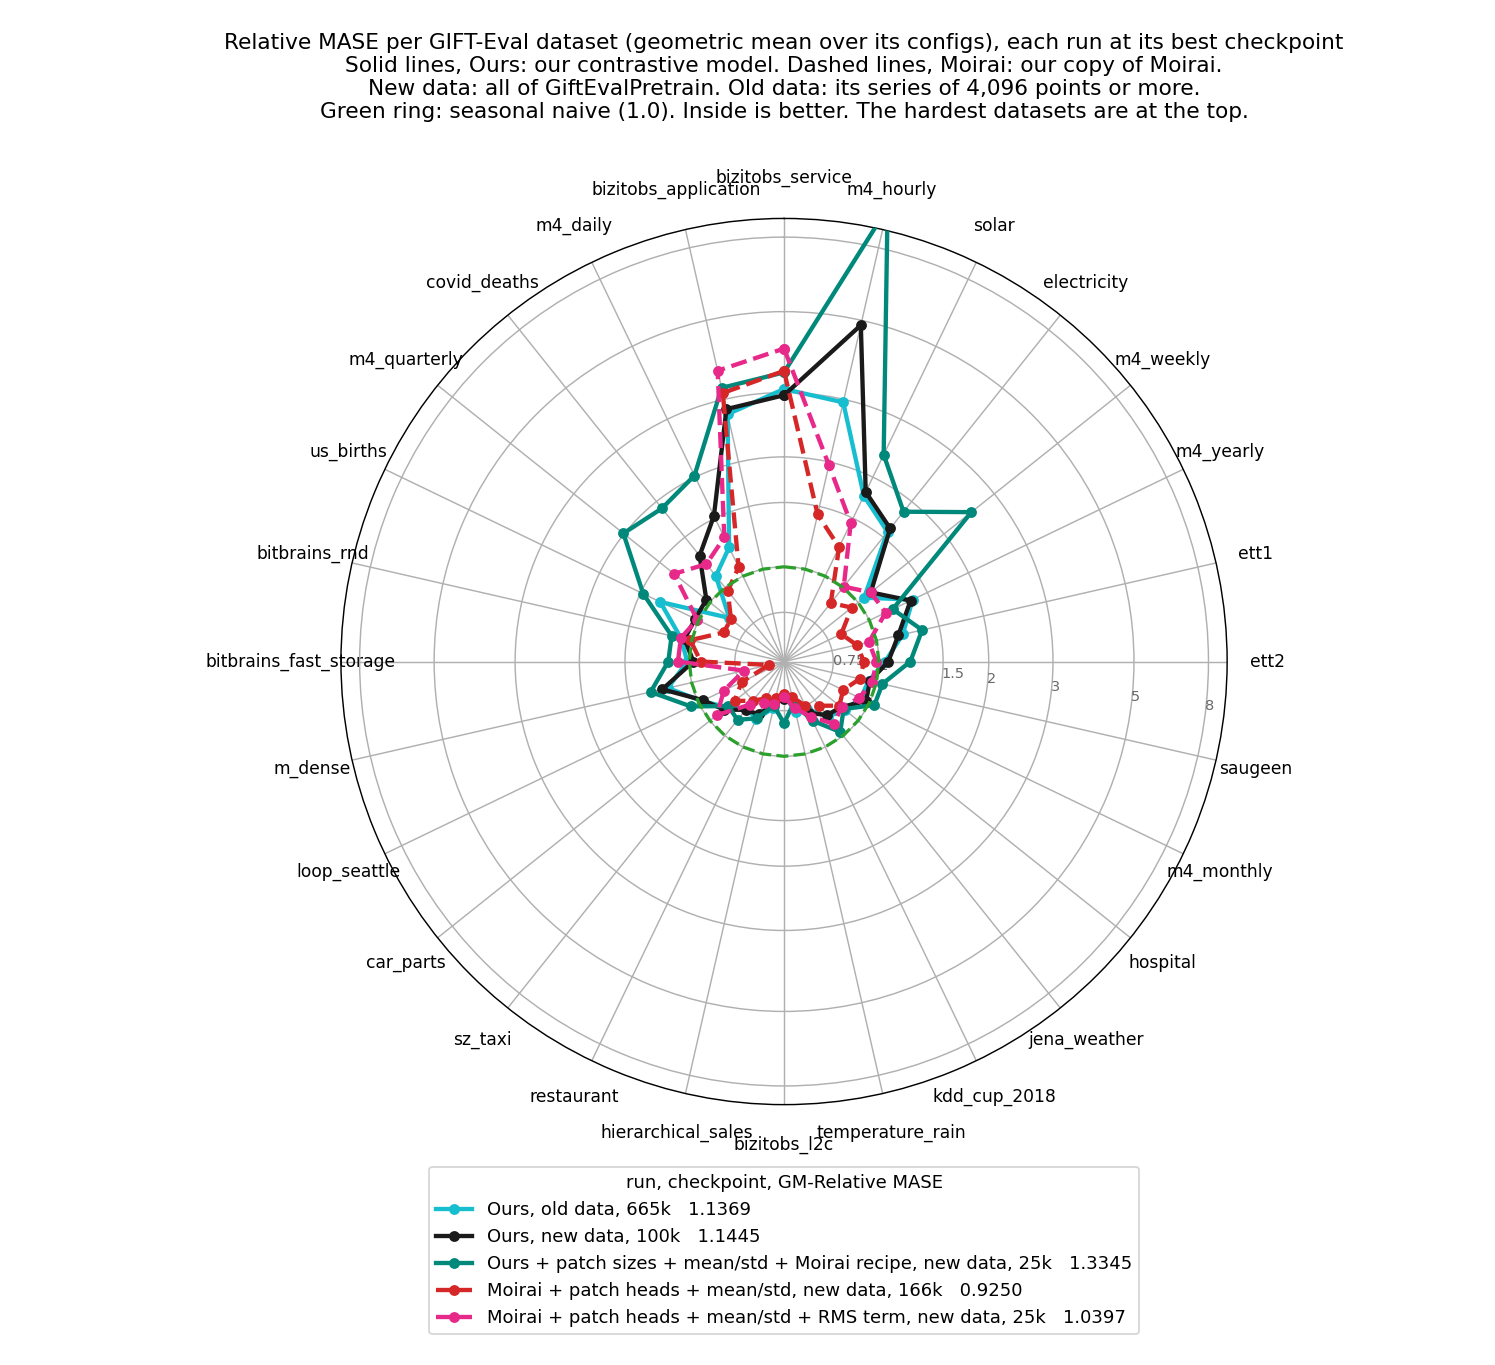
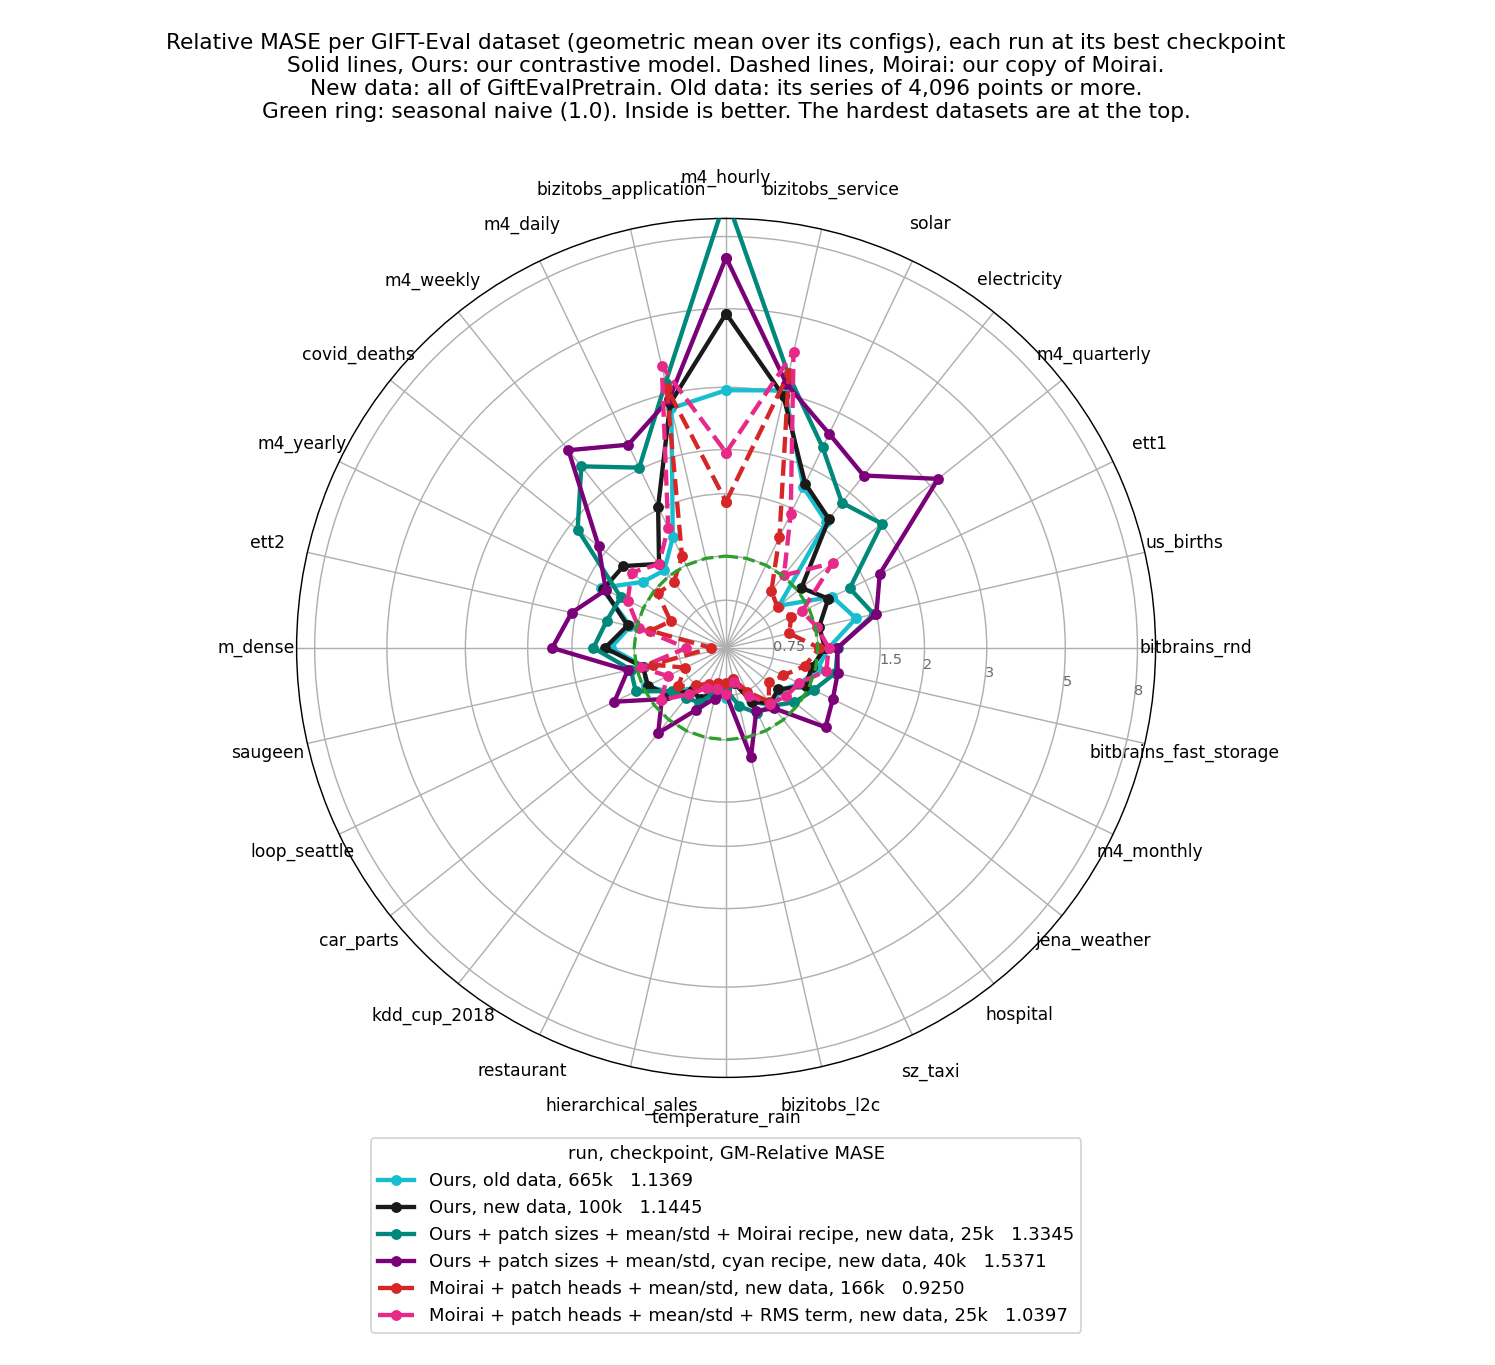
exp(#412): #412oc scores 1.5371 at 40k (cyan 1.1681)
#412om's model on cyan's cos200k recipe. It enters the curves (plum,
solid, batch 64) and the radar.

diff --git a/reports/2026-09-06_moirai_small_size/scripts/plot_gm_rates.py b/reports/2026-09-06_moirai_small_size/scripts/plot_gm_rates.py
@@ -31,6 +31,7 @@ RUNS = [
     (P + "_cos200k",  "Ours, lr cosine 5.6e-5→1e-6 by 200k",      4.0, "v"),
     ("cf419_cos200k", "Ours, lr cosine by 200k, new data",        4.0, "*"),
     ("cf412om", "Ours + patch sizes + mean/std + Moirai recipe, new data", 4.4, "h"),
+    ("cf412oc", "Ours + patch sizes + mean/std, cyan recipe, new data", 4.4, "p"),
     # Moirai: our copy of Moirai, trained on the values with its schedule.
     ("cf415_moirai_native", "Moirai, own head",                   2.4, "o"),
     ("cf421f_moirai_native", "Moirai + patch heads + mean/std, new data", 4.4, "X"),

diff --git a/reports/2026-09-06_moirai_small_size/scripts/plot_radar_419.py b/reports/2026-09-06_moirai_small_size/scripts/plot_radar_419.py
@@ -15,6 +15,7 @@ from run_style import P, colour, line
 NEW_DATA = [
     ("cf419_cos200k", "cos419_", "Ours"),
     ("cf412om", "ours412om_", "Ours + patch sizes + mean/std + Moirai recipe"),
+    ("cf412oc", "ours412oc_", "Ours + patch sizes + mean/std, cyan recipe"),
     ("cf421f_moirai_native", "moirai421f_native", "Moirai + patch heads + mean/std"),
     ("cf421n_moirai_native", "moirai421n_native", "Moirai + patch heads + mean/std + RMS term"),
 ]

diff --git a/reports/2026-09-06_moirai_small_size/scripts/run_style.py b/reports/2026-09-06_moirai_small_size/scripts/run_style.py
@@ -17,6 +17,7 @@ STYLE = {
     "b2cos": ("#e377c2", OURS),
     "cf419_cos200k": ("#1a1a1a", OURS),
     "cf412om": ("#00897b", OURS),
+    "cf412oc": ("#7a0177", OURS),
     "cf415_moirai": ("#8c564b", MOIRAI),
     "cf415_moirai_native": ("#8c564b", ":"),
     "cf419_moirai_native": ("#9a9a00", MOIRAI),
